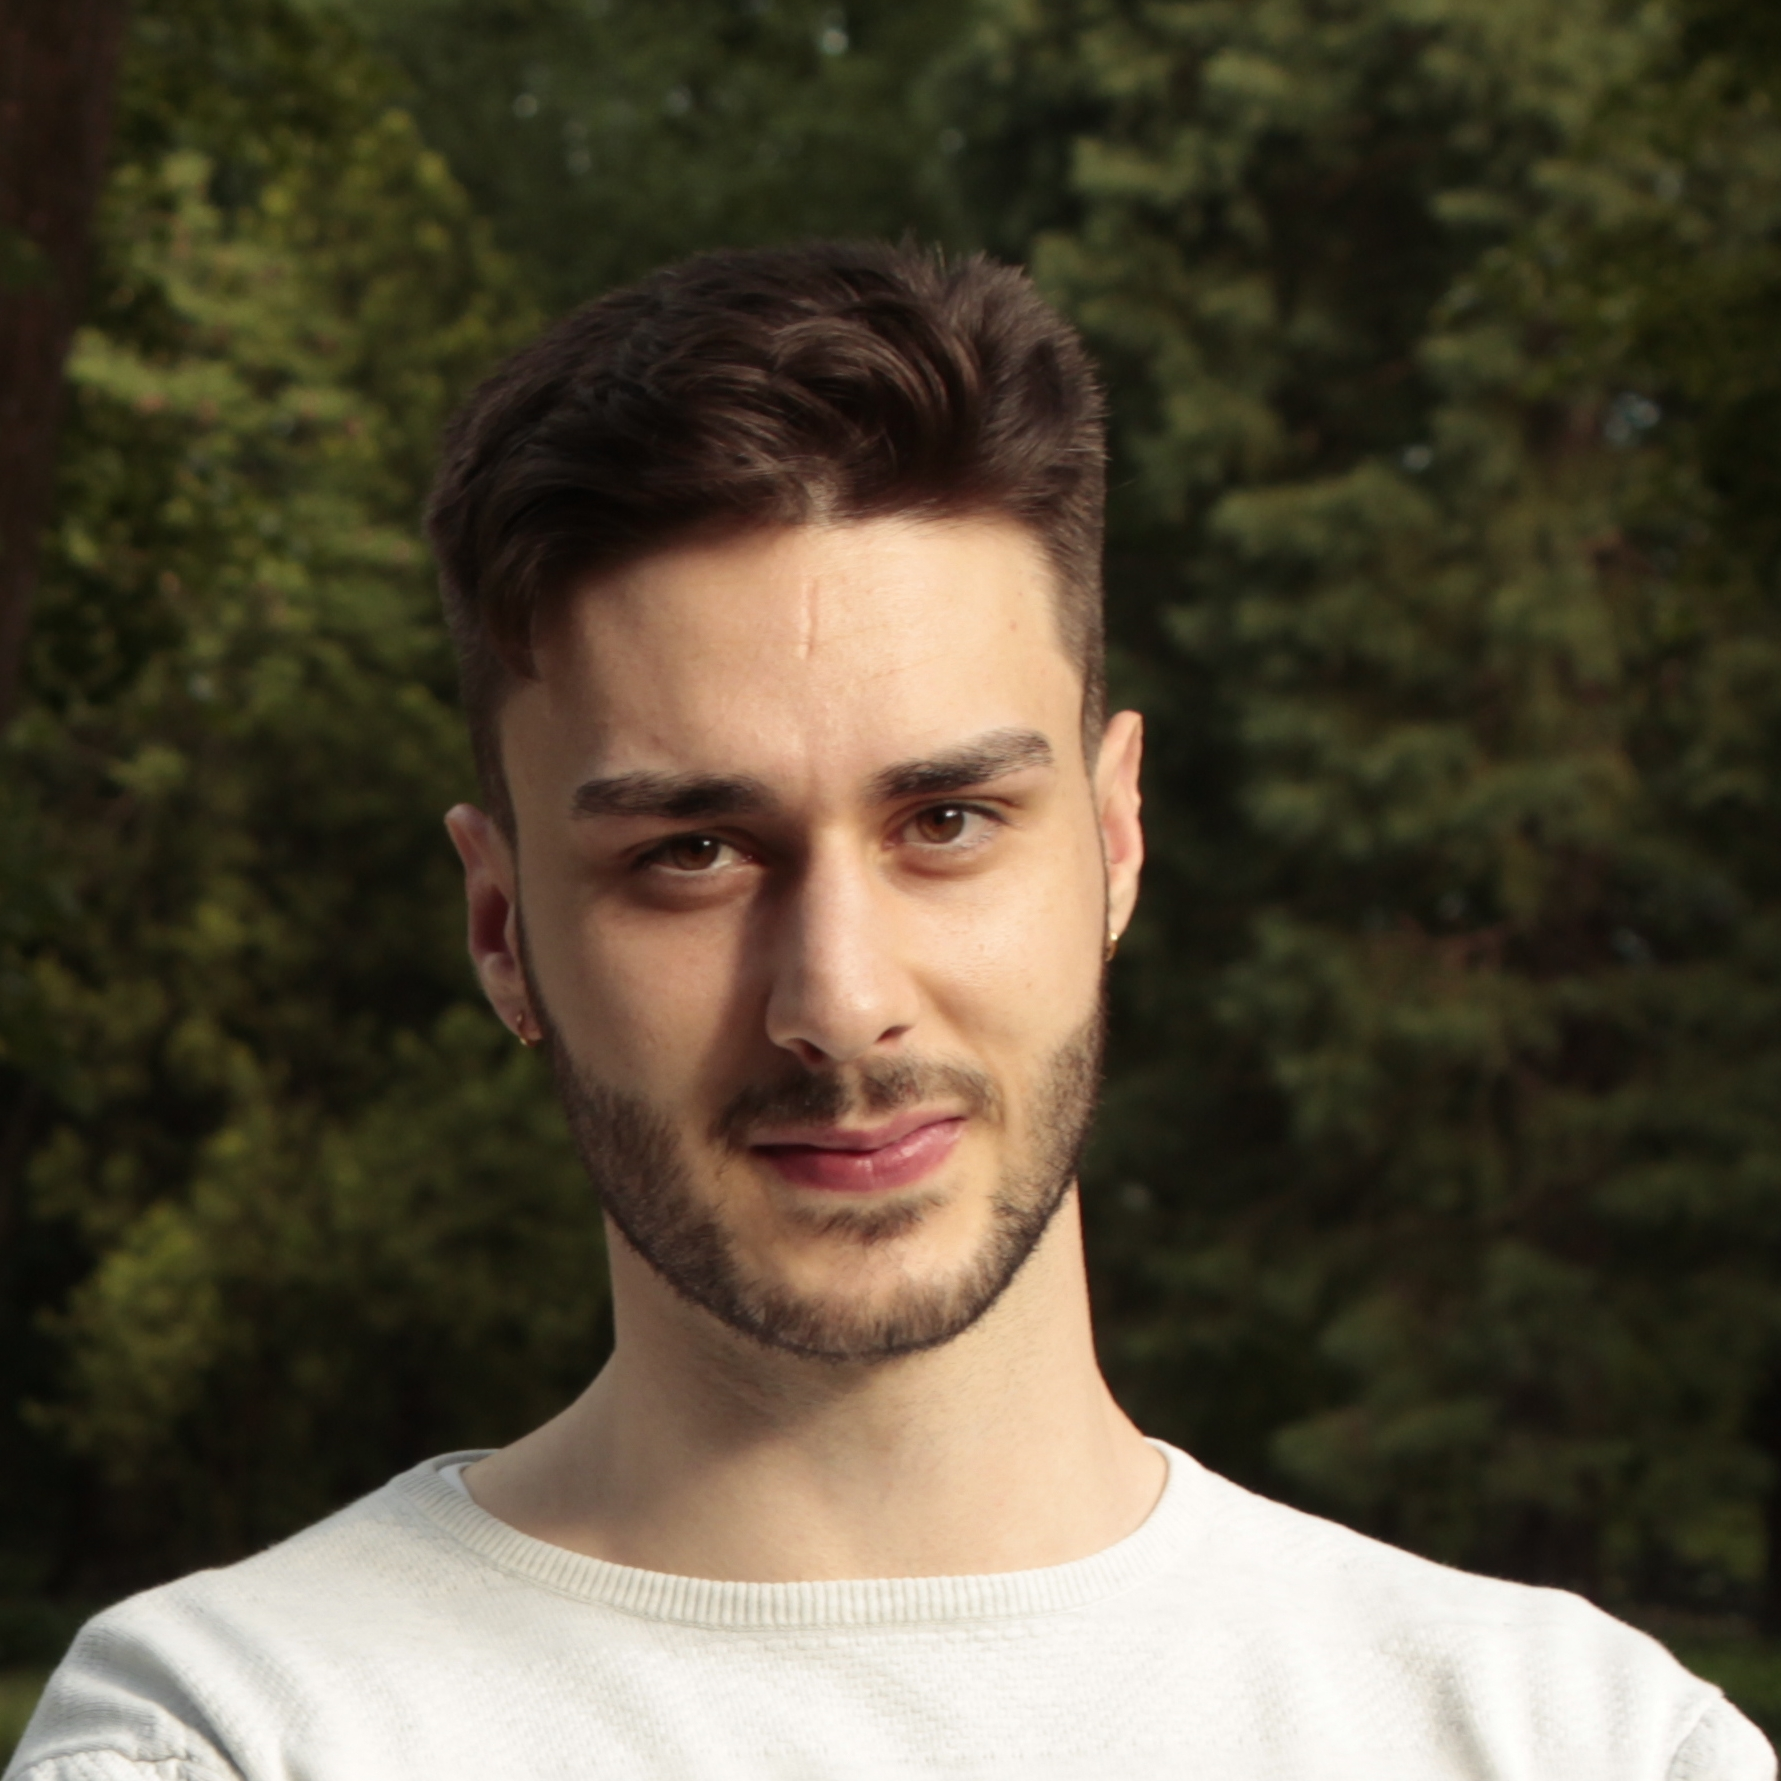
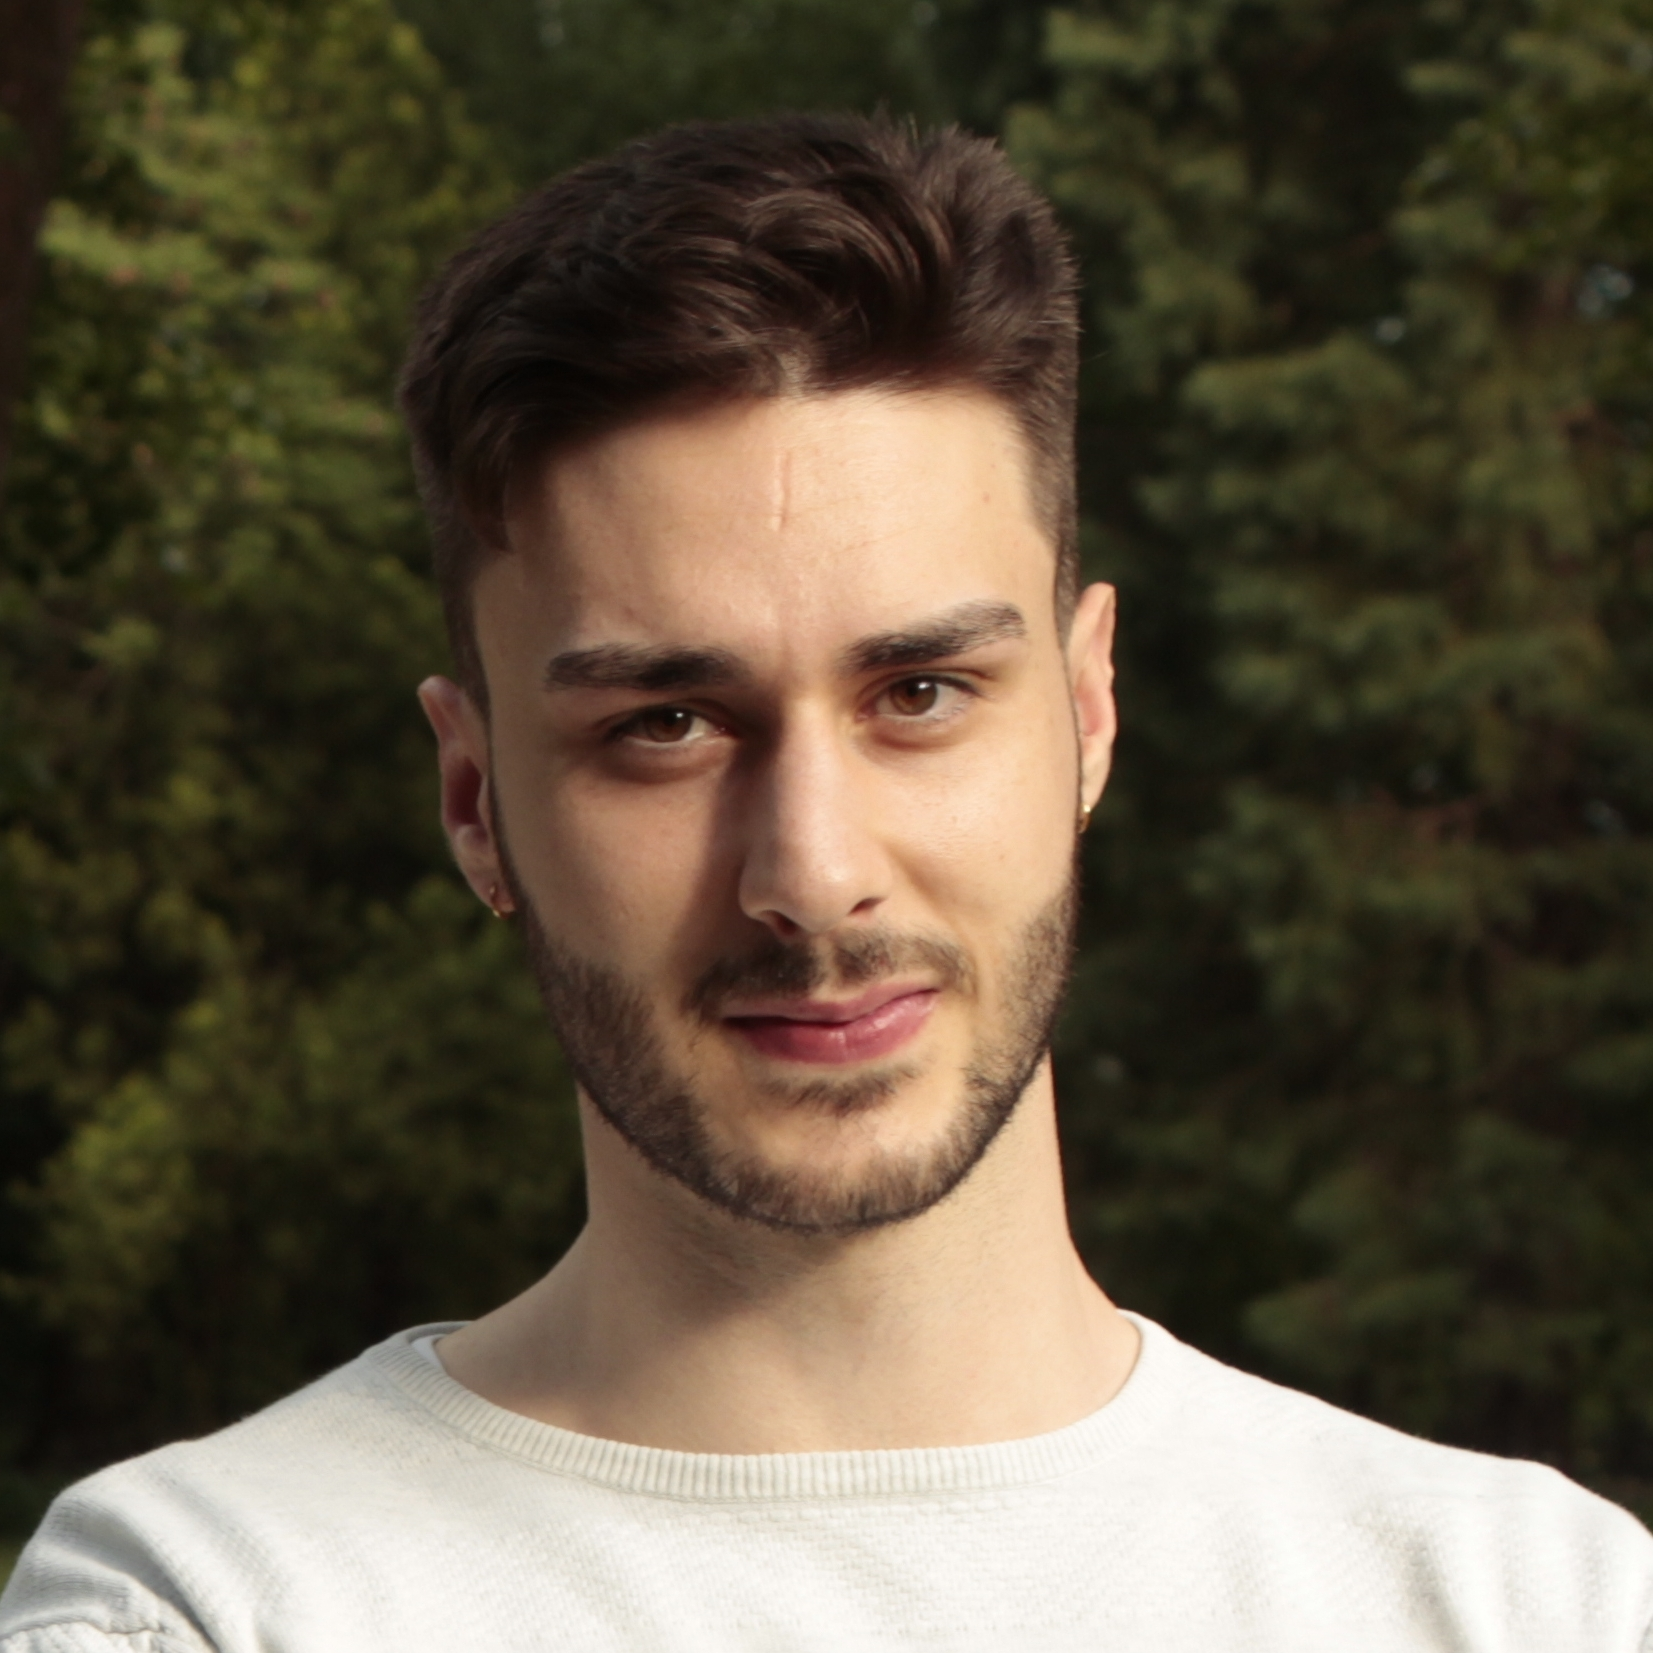
made background off-white and cropped portrait.

diff --git a/index.html b/index.html
@@ -15,7 +15,7 @@
                 <img class="profile" src="portrait_white.JPG" alt="Profile picture of Matthias Dellago">
                 <h1>Matthias Dellago</h1>
             </div>
-            <p>Hi, I'm Matt! Former physicist and hacker, now into machine learning, transformers and mechanistic interpretability.<br>Eager to collaborate on research projects—Let's connect!</p>
+            <p>Hi, I'm Matt! Former physicist and hacker, now into machine learning, transformers and mechanistic interpretability. Eager to collaborate on research projects—Let's connect!</p>
             <nav>
                 <ul>
                     <li><a href="https://github.com/matthiasdellago" target="_blank" rel="noopener noreferrer"><span role="img" aria-label="Link to Github profile">🚀</span>Github</a></li>

diff --git a/styles.css b/styles.css
@@ -2,11 +2,11 @@ body {
     font-family: Arial, sans-serif;
     margin: 0;
     padding: 0;
-    background-color: #F3F3F3;
+    background-color: #ede4db;
 }
 
 .container {
-    max-width: 600px;
+    max-width: 620px;
     margin: 0 auto;
     padding: 20px;
 }
@@ -54,7 +54,7 @@ nav ul li a:hover {
     text-decoration: underline;
 }
 
-@media screen and (max-width: 600px) {
+@media screen and (max-width: 620px) {
     .profile-header {
       flex-direction: column;
       align-items: center;
